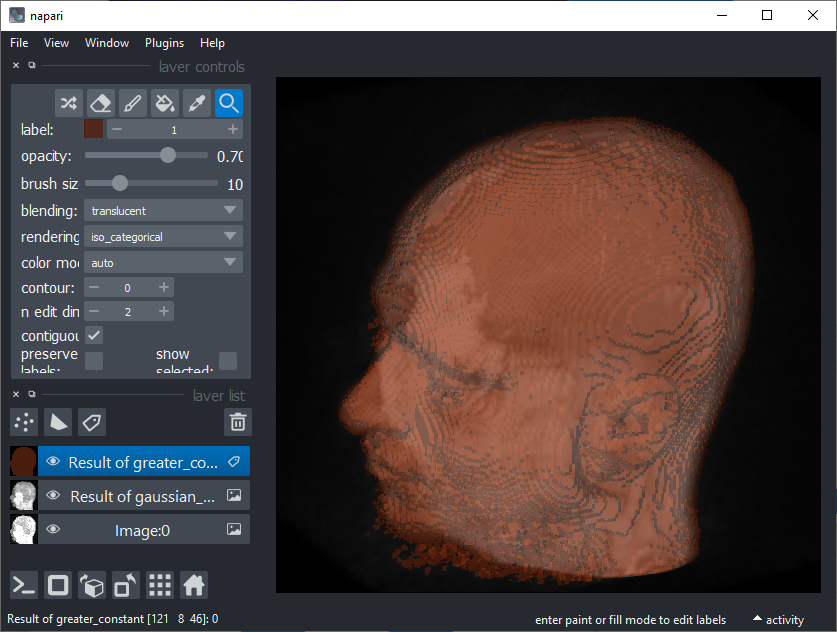
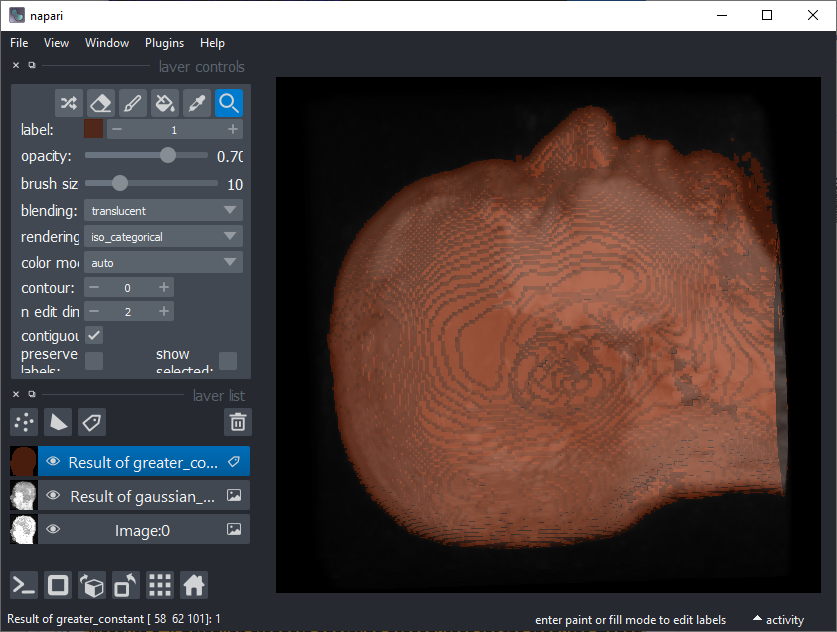
update screenshots and readme

diff --git a/README.md b/README.md
@@ -10,7 +10,10 @@ Exports label images to 3D-printable stl files.
 
 ## Features
 
-You can easily create label layers from normal image layers in napari by converting them:
+Starting point is a label layer, e.g. after image segmentation. See this [list for napari's segmentation plugins](https://www.napari-hub.org/?search=segmentation&sort=relevance&page=1).
+![](https://raw.githubusercontent.com/jo-mueller/napari-stl-exporter/main/doc/head_screenshot.png)
+
+Alternatively, you can load a binary image, e.g. as TIF image and then easily create label layers from an image layer in napari right-clicking on the layer and by converting the layer:
 ![](https://raw.githubusercontent.com/jo-mueller/napari-stl-exporter/main/doc/convert_to_label.png)
 
 The label layer is then saved as a 3D-printable stl file if the filename is provided accordingly (e.g., _MyExampleFile.stl_). To actually send your object to a 3D-printer, it has to be further converted with a Slicer program which actually controls the print parameters (Level of detail, layer thickness, etc). Popular freeware slicers are:
@@ -18,7 +21,8 @@ The label layer is then saved as a 3D-printable stl file if the filename is prov
 * [Slic3r](https://slic3r.org/)
 * [Prusa Slicer](https://www.prusa3d.com/prusaslicer/)
 
-
+You can also upload the STL file to [github.com](https://github.com) and interact with it in the browser:
+![](https://raw.githubusercontent.com/jo-mueller/napari-stl-exporter/main/doc/head_screenshot_browser.png)
 
 ----------------------------------
 
